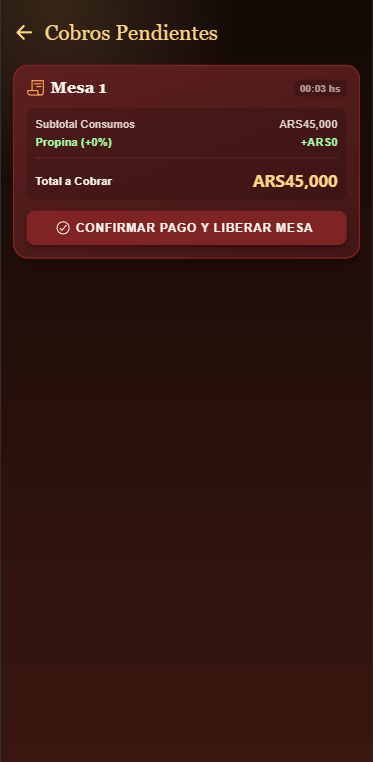
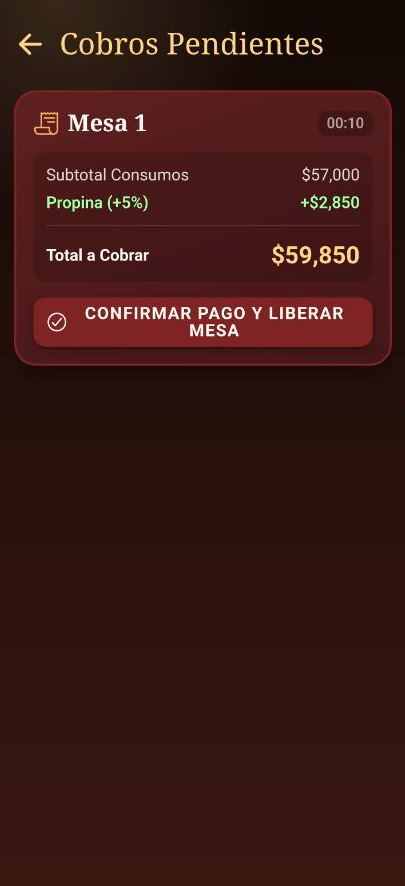
fix: actualizar readme y arreglos de push notification y pantallas de encuesta y pago para entrega de primera fecha

Changed region(s): [[0.0295, 0.0302, 0.9732, 0.4226], [0.0295, 0.2415, 0.059, 0.2717]]

diff --git a/supabase/functions/notificar-lista-espera/index.ts b/supabase/functions/notificar-lista-espera/index.ts
@@ -1,0 +1,180 @@
+import { createClient, SupabaseClient } from 'https://esm.sh/@supabase/supabase-js@2';
+import { create, getNumericDate } from 'https://deno.land/x/djwt@v3.0.2/mod.ts';
+import { json } from '../_shared/cors.ts';
+import { autorizadoPorWebhook } from '../_shared/webhook-auth.ts';
+
+// La llama un Database Webhook de Supabase (Database > Webhooks) configurado
+// sobre INSERT en la tabla "lista_espera", con el header x-webhook-secret
+// puesto a mano (mismo secret que usan las demás funciones notificar-*).
+
+const SUPABASE_URL = Deno.env.get('SUPABASE_URL') ?? '';
+const SERVICE_ROLE_KEY = Deno.env.get('SUPABASE_SERVICE_ROLE_KEY') ?? '';
+const FCM_PROJECT_ID = Deno.env.get('FCM_PROJECT_ID') ?? '';
+const FCM_SERVICE_ACCOUNT_JSON = Deno.env.get('FCM_SERVICE_ACCOUNT_JSON') ?? '';
+
+interface CuentaServicio {
+  client_email: string;
+  private_key: string;
+}
+
+interface FilaToken {
+  token: string;
+}
+
+function err(mensaje: string, status = 400): Response {
+  return json({ error: mensaje }, status);
+}
+
+/**
+ * Cambia la clave privada de la cuenta de servicio de Firebase por un access
+ * token de Google OAuth2, válido por 1 hora, para poder llamar a la API
+ * HTTP v1 de FCM (la API "legacy" con server key está deprecada).
+ */
+async function obtenerAccessTokenFcm(): Promise<string> {
+  const cuenta = JSON.parse(FCM_SERVICE_ACCOUNT_JSON) as CuentaServicio;
+
+  const pem = cuenta.private_key
+    .replace(/-----BEGIN PRIVATE KEY-----/, '')
+    .replace(/-----END PRIVATE KEY-----/, '')
+    .replace(/\s/g, '');
+  const bytes = Uint8Array.from(atob(pem), (c) => c.charCodeAt(0));
+
+  const clave = await crypto.subtle.importKey(
+    'pkcs8',
+    bytes,
+    { name: 'RSASSA-PKCS1-v1_5', hash: 'SHA-256' },
+    false,
+    ['sign'],
+  );
+
+  const jwt = await create(
+    { alg: 'RS256', typ: 'JWT' },
+    {
+      iss: cuenta.client_email,
+      scope: 'https://www.googleapis.com/auth/firebase.messaging',
+      aud: 'https://oauth2.googleapis.com/token',
+      iat: getNumericDate(0),
+      exp: getNumericDate(3600),
+    },
+    clave,
+  );
+
+  const resp = await fetch('https://oauth2.googleapis.com/token', {
+    method: 'POST',
+    headers: { 'Content-Type': 'application/x-www-form-urlencoded' },
+    body: new URLSearchParams({
+      grant_type: 'urn:ietf:params:oauth:grant-type:jwt-bearer',
+      assertion: jwt,
+    }),
+  });
+
+  const data = await resp.json();
+  if (!resp.ok || !data.access_token) {
+    throw new Error(
+      `No se pudo obtener el token de acceso de FCM: ${JSON.stringify(data)}`,
+    );
+  }
+  return data.access_token as string;
+}
+
+Deno.serve(async (req) => {
+  if (req.method !== 'POST') {
+    return err('Método no permitido.', 405);
+  }
+
+  if (!autorizadoPorWebhook(req)) {
+    return err('No autorizado.', 401);
+  }
+
+  if (!SUPABASE_URL || !SERVICE_ROLE_KEY || !FCM_PROJECT_ID || !FCM_SERVICE_ACCOUNT_JSON) {
+    return err('La función no está configurada (faltan variables de entorno).', 500);
+  }
+
+  let payload: { record?: Record<string, unknown> };
+  try {
+    payload = await req.json();
+  } catch {
+    return err('El cuerpo de la solicitud no es válido.');
+  }
+
+  const registro = payload.record;
+  if (!registro || registro['estado'] !== 'esperando') {
+    // No es un alta nueva en espera (ej. una actualización posterior de estado).
+    return json({ ignorado: true });
+  }
+
+  const admin: SupabaseClient = createClient(SUPABASE_URL, SERVICE_ROLE_KEY);
+
+  const { data: tokens, error: tokensErr } = await admin
+    .from('push_tokens')
+    .select('token, usuarios!inner(roles!inner(nombre))')
+    .eq('usuarios.roles.nombre', 'metre');
+
+  if (tokensErr) {
+    console.error('Error al leer los tokens de notificación:', tokensErr);
+    return err('No se pudieron leer los destinatarios.', 500);
+  }
+
+  if (!tokens?.length) {
+    return json({ enviados: 0, motivo: 'sin destinatarios' });
+  }
+
+  let accessToken: string;
+  try {
+    accessToken = await obtenerAccessTokenFcm();
+  } catch (e) {
+    console.error(e);
+    return err('No se pudo autenticar contra Firebase Cloud Messaging.', 500);
+  }
+
+  const nombre = String(registro['nombre'] ?? '');
+  const cantidadPersonas = String(registro['cantidad_personas'] ?? '');
+  const tipoMesa = String(registro['tipo_mesa'] ?? '');
+  const tokensInvalidos: string[] = [];
+
+  const resultados = await Promise.allSettled(
+    (tokens as FilaToken[]).map(async ({ token }) => {
+      const resp = await fetch(
+        `https://fcm.googleapis.com/v1/projects/${FCM_PROJECT_ID}/messages:send`,
+        {
+          method: 'POST',
+          headers: {
+            Authorization: `Bearer ${accessToken}`,
+            'Content-Type': 'application/json',
+          },
+          body: JSON.stringify({
+            message: {
+              token,
+              notification: {
+                title: 'Nuevo cliente en lista de espera',
+                body: `${nombre} se sumó a la lista de espera (${cantidadPersonas} personas, mesa ${tipoMesa}).`,
+              },
+              data: {
+                tipo: 'lista_espera_nueva',
+                lista_espera_id: String(registro['id'] ?? ''),
+              },
+              android: { priority: 'high' },
+            },
+          }),
+        },
+      );
+
+      if (!resp.ok) {
+        const detalle = await resp.text();
+        if (resp.status === 404 || /UNREGISTERED|NOT_FOUND/i.test(detalle)) {
+          tokensInvalidos.push(token);
+        } else {
+          console.error('Error de FCM:', resp.status, detalle);
+        }
+      }
+    }),
+  );
+
+  if (tokensInvalidos.length) {
+    // Limpieza: tokens de instalaciones desinstaladas o expiradas.
+    await admin.from('push_tokens').delete().in('token', tokensInvalidos);
+  }
+
+  const enviados = resultados.filter((r) => r.status === 'fulfilled').length;
+  return json({ enviados, destinatarios: tokens.length });
+});

diff --git a/src/app/pages/solicitar-cuenta/solicitar-cuenta.page.scss b/src/app/pages/solicitar-cuenta/solicitar-cuenta.page.scss
@@ -3,6 +3,10 @@
         radial-gradient(circle at 15% 0%, rgba(246, 193, 133, 0.16), transparent 22%),
         linear-gradient(180deg, #130905 0%, #3a1710 100%); // Gradiente de marca
     --color: #ffd485; // Tipografía principal dorada
+
+    &::part(scroll) {
+        height: 100%;
+    }
     }
 
     .loader {
@@ -207,7 +211,7 @@
     display: flex;
     flex-direction: column;
     gap: 14px;
-    overflow-y: auto;
+    overflow-y: hidden; // el scroll, si hace falta, queda contenido dentro de la lista de consumos
     }
 
     .factura-seccion {
@@ -231,9 +235,9 @@
     }
 
     .items-list {
-    flex: 0 0 auto;
-    height: 142px; // alto fijo de 2 productos (66px c/u + 10px de margen); si hay más, scrollea
-    overflow-y: auto;
+    flex: 1 1 0; // ocupa el espacio que le sobra al resto de la factura
+    min-height: 66px; // nunca baja de 1 producto visible
+    overflow-y: auto; // si hay muchos productos, scrollea en vez de desbordar la pantalla
     display: flex;
     flex-direction: column;
     background: transparent !important;
@@ -299,7 +303,8 @@
     }
 
     .consumos-box {
-    flex: 0 0 auto; // mismo alto siempre, sin importar cuántos productos haya
+    flex: 1 1 0; // se estira o achica según el espacio disponible en pantalla
+    min-height: 0;
 
     h3 {
         margin-bottom: 6px; // así la factura entra sin scroll en un celular de 740px
@@ -360,7 +365,7 @@
     }
 
     .monto-grande {
-        font-size: clamp(2.6rem, 7vh, 3.4rem);
+        font-size: clamp(2.8rem, 8vh, 3.8rem);
         font-weight: 800;
         color: #ffd485;
         letter-spacing: -0.02em;

diff --git a/src/app/home/home.page.ts b/src/app/home/home.page.ts
@@ -149,7 +149,9 @@ export class HomePage implements OnInit {
         boton.contexto === 'siempre'
         || boton.contexto === estado
         // las encuestas previas también se ven antes de anotarse en la lista de espera
-        || (boton.clave === 'encuestas-previas' && estado === 'sin_estadia'))
+        || (boton.clave === 'encuestas-previas' && estado === 'sin_estadia')
+        // los juegos ya se habilitan apenas el mozo confirma el pedido, no solo al entregarlo
+        || (boton.ruta === '/juegos' && estado === 'pedido_confirmado'))
       // Una vez anotado en la lista de espera ya no tiene sentido volver a mostrar
       // el botón para anotarse: solo sirve antes de tener alguna estadía en curso.
       .filter((boton) => !(estado !== 'sin_estadia' && boton.ruta === '/ingreso-lista-espera'));
@@ -205,7 +207,7 @@ export class HomePage implements OnInit {
       }
 
       if (
-        ['dueño', 'supervisor', 'mozo', 'cliente_registrado', 'cocinero', 'cantinero' ].includes(
+        ['dueño', 'supervisor', 'metre', 'mozo', 'cliente_registrado', 'cocinero', 'cantinero' ].includes(
           usuario.roles?.nombre ?? ''
         )
       ) {

diff --git a/src/app/pages/realizar-encuesta/realizar-encuesta.page.ts b/src/app/pages/realizar-encuesta/realizar-encuesta.page.ts
@@ -154,9 +154,13 @@ export class RealizarEncuestaPage implements OnInit {
       }
 
       const yaRespondida = await this.encuestaService.verificarEncuestaRespondida(ocupacion.id);
-      
+
       if (yaRespondida) {
-        this.desviarAlHome('Ya completaste la encuesta de satisfacción correspondiente a esta estadía.');
+        this.mensajeModal.exito(
+          'Ya completaste la encuesta de satisfacción correspondiente a esta estadía. Te mostramos los resultados.',
+          'Encuesta ya realizada'
+        );
+        void this.router.navigate(['/resultados-encuesta'], { replaceUrl: true });
         return;
       }
 

diff --git a/src/app/pages/solicitar-cuenta/solicitar-cuenta.page.html b/src/app/pages/solicitar-cuenta/solicitar-cuenta.page.html
@@ -1,4 +1,4 @@
-<ion-content class="home-bg" [fullscreen]="true">
+<ion-content class="home-bg" [fullscreen]="true" [scrollY]="false">
   <!-- Spinner -->
   @if (procesandoTransaccion()) {
     <div class="loader">

diff --git a/README.md b/README.md
@@ -153,7 +153,11 @@ supabase/
 | Mail de aceptación | <img src="docs/capturas/mail_aceptacion.png" width="500" alt="Mail de aceptación"> | `docs/capturas/mail_aceptacion.png` |
 | Mail de rechazo | <img src="docs/capturas/mail_rechazo.png" width="500" alt="Mail de rechazo"> | `docs/capturas/mail_rechazo.png` |
 | Lista de espera | <img src="docs/capturas/lista_espera.png" width="240" alt="Lista de espera"> | `docs/capturas/lista_espera.png` |
-| Estadisticas | <img src="docs/capturas/estadisticas.png" width="240" alt="estadisticas"> | `docs/capturas/estadisticas.png` |
+| Calificación cocina | <img src="docs/capturas/estadisticas_1.png" width="240" alt="estadistica calif cocina"> | `docs/capturas/estadisticas_1.png` |
+| Desempeño de personal | <img src="docs/capturas/estadisticas_2.png" width="240" alt="estadistica desemp personal"> | `docs/capturas/estadisticas_2.png` |
+| Tiempo de espera | <img src="docs/capturas/estadisticas_3.png" width="240" alt="estadistica tiempo de espera"> | `docs/capturas/estadisticas_3.png` |
+| Calificación de fortalezas | <img src="docs/capturas/estadisticas_4.png" width="240" alt="estadistica fortalezas"> | `docs/capturas/estadisticas_4.png` |
+| Indice de recomendación | <img src="docs/capturas/estadisticas_5.png" width="240" alt="estadistica indice recomendación"> | `docs/capturas/estadisticas_5.png` |
 | Solicitud de mesa | <img src="docs/capturas/solicitud_mesa.png" width="240" alt="Solicitud de mesa"> | `docs/capturas/solicitud_mesa.png` |
 | Chat | <img src="docs/capturas/chat.png" width="240" alt="Chat"> | `docs/capturas/chat.png` |
 | Lista de productos para el pedido | <img src="docs/capturas/pedido-1.png" width="240" alt="Listado productos"> | `docs/capturas/pedido-1.png` |
@@ -167,8 +171,21 @@ supabase/
 | Juego Trivia | <img src="docs/capturas/juego_3.png" width="240" alt="Juego trivia"> | `docs/capturas/juego_3.png` |
 | Realizar encuestas | <img src="docs/capturas/realizar_encuesta.png" width="240" alt="Realizar encuestas"> | `docs/capturas/realizar_encuesta.png` |
 | Solicitar Cuenta | <img src="docs/capturas/solicitar_cuenta.png" width="240" alt="Solicitar cuenta"> | `docs/capturas/solicitar_cuenta.png` |
+| Porcentaje propina | <img src="docs/capturas/porcentaje_propina.png" width="240" alt="Porcentaje propina"> | `docs/capturas/porcentaje_propina.png` |
+| Confirmación propina | <img src="docs/capturas/confirmacion_propina.png" width="240" alt="Confirmación propina"> | `docs/capturas/confirmacion_propina.png` |
 | Solicitar Cuenta Confirmación | <img src="docs/capturas/solicitar_cuenta_final.png" width="240" alt="Solicitud de cuenta confirmación"> | `docs/capturas/confirmar_cuenta_final.png` |
 | Confirmación de pago | <img src="docs/capturas/confirmacion_pago.png" width="240" alt="confirmación de pago"> | `docs/capturas/confirmar_pago.png` |
+| Push Notification: cliente esperando aceptación | <img src="docs/capturas/push_cliente_esperando_aceptacion.jpg" width="240" alt="push cliente esperando aceptacion"> | `docs/capturas/push_cliente_esperando_aceptacion.jpg` |
+| Push Notification: cliente en lista de espera | <img src="docs/capturas/push_cliente_lista_espera.jpg" width="240" alt="push cliente en lista de espera"> | `docs/capturas/push_cliente_lista_espera.jpg` |
+| Push Notification: mesa asignada | <img src="docs/capturas/push_mesa_asignada.jpg" width="240" alt="push mesa asignada"> | `docs/capturas/push_mesa_asignada.jpg` |
+| Push Notification: consulta de cliente | <img src="docs/capturas/push_consulta_cliente.jpg" width="240" alt="push consulta de cliente"> | `docs/capturas/push_consulta_cliente.jpg` |
+| Push Notification: Respuesta de mozo a consulta | <img src="docs/capturas/push_respuesta_mozo.jpg" width="240" alt="push respuesta de mozo a consulta"> | `docs/capturas/push_respuesta_mozo.jpg` |
+| Push Notification: pedido a mozo | <img src="docs/capturas/push_pedido_mozo.jpg" width="240" alt="push pedido a mozo"> | `docs/capturas/push_pedido_mozo.jpg` |
+| Push Notification: pedido rechazado | <img src="docs/capturas/push_pedido_rechazado.jpg" width="240" alt="push pedido rechazado"> | `docs/capturas/push_pedido_rechazado.jpg` |
+| Push Notification: comanda asignada | <img src="docs/capturas/push_comanda_asignada.jpg" width="240" alt="push comanda asignada"> | `docs/capturas/push_comanda_asignada.jpg` |
+| Push Notification: cuenta solicitada | <img src="docs/capturas/push_cuenta_solicitada.jpg" width="240" alt="push cuenta solicitada"> | `docs/capturas/push_cuenta_solicitada.jpg` |
+| Push Notification: pago pendiente de confirmación | <img src="docs/capturas/push_pago_pendiente.jpg" width="240" alt="push pago pendiente de confirmación"> | `docs/capturas/push_pago_pendiente.jpg` |
+| Push Notification: confirmación de pago | <img src="docs/capturas/push_confirmacion_pago.jpg" width="240" alt="push confirmación de pago"> | `docs/capturas/push_confirmacion_pago.jpg` |
 ---
 
 ## <a id="estado-de-avance--puntos-funcionales"></a>✅ Estado de avance — Puntos funcionales
@@ -222,6 +239,7 @@ supabase/
 | <img src="docs/capturas/qr_mesa_3.png" width="240" alt="QR Mesa 3"> | Ver mesa 3 para acceder a menú, pedido, encuesta, juegos y pago (cliente) |
 | <img src="docs/capturas/qr_mesa_4.png" width="240" alt="QR Mesa 4"> | Ver mesa 4 para acceder a menú, pedido, encuesta, juegos y pago (cliente) |
 | <img src="docs/capturas/qr_mesa_6.png" width="240" alt="QR Mesa 6"> | Ver mesa 6 para acceder a menú, pedido, encuesta, juegos y pago (cliente) |
+| <img src="docs/capturas/qr_mesa_8.png" width="240" alt="QR Mesa 8"> | Ver mesa 8 para acceder a menú, pedido, encuesta, juegos y pago (cliente) |
 | <img src="docs/capturas/qr_propina_malo.png" width="240" alt="QR Propina Malo (0%)"> | Qr de propina 0% (malo) |
 | <img src="docs/capturas/qr_propina_regular.png" width="240" alt="QR Propina Regular (5%)"> | Qr de propina 5% (regular) |
 | <img src="docs/capturas/qr_propina_bueno.png" width="240" alt="QR Propina Bueno (10%)"> | Qr de propina 10% (bueno) |
